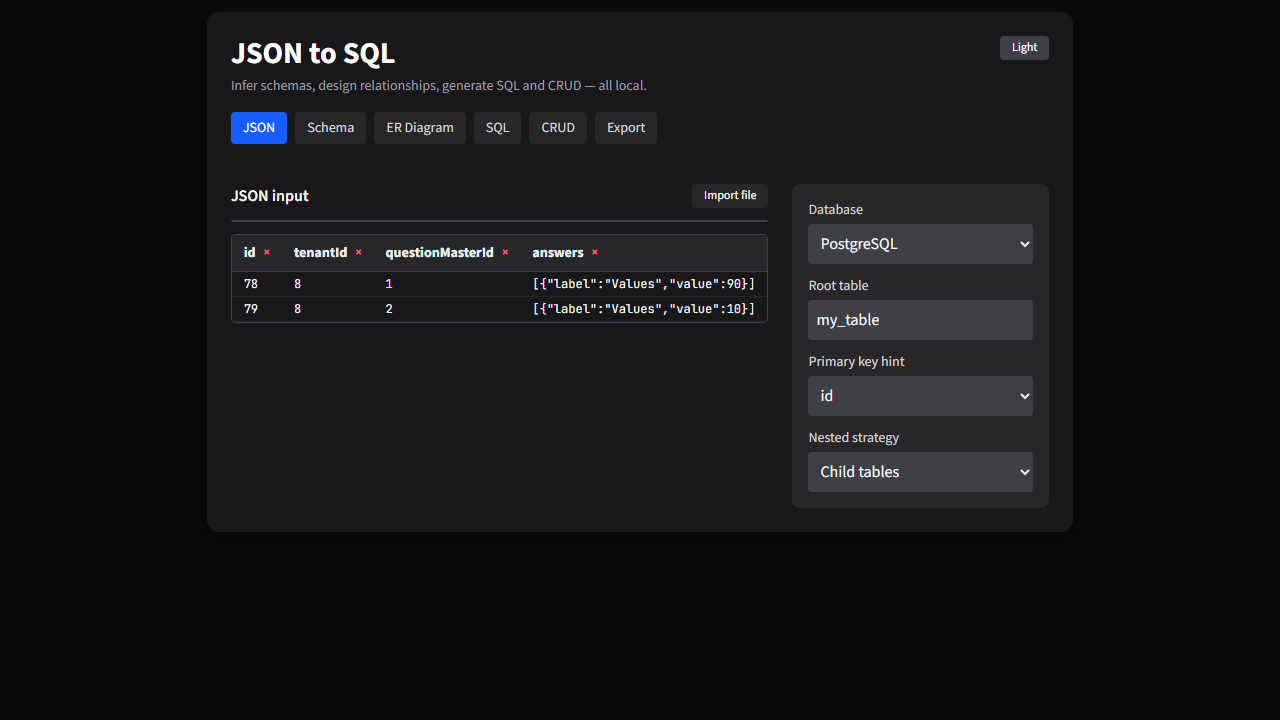
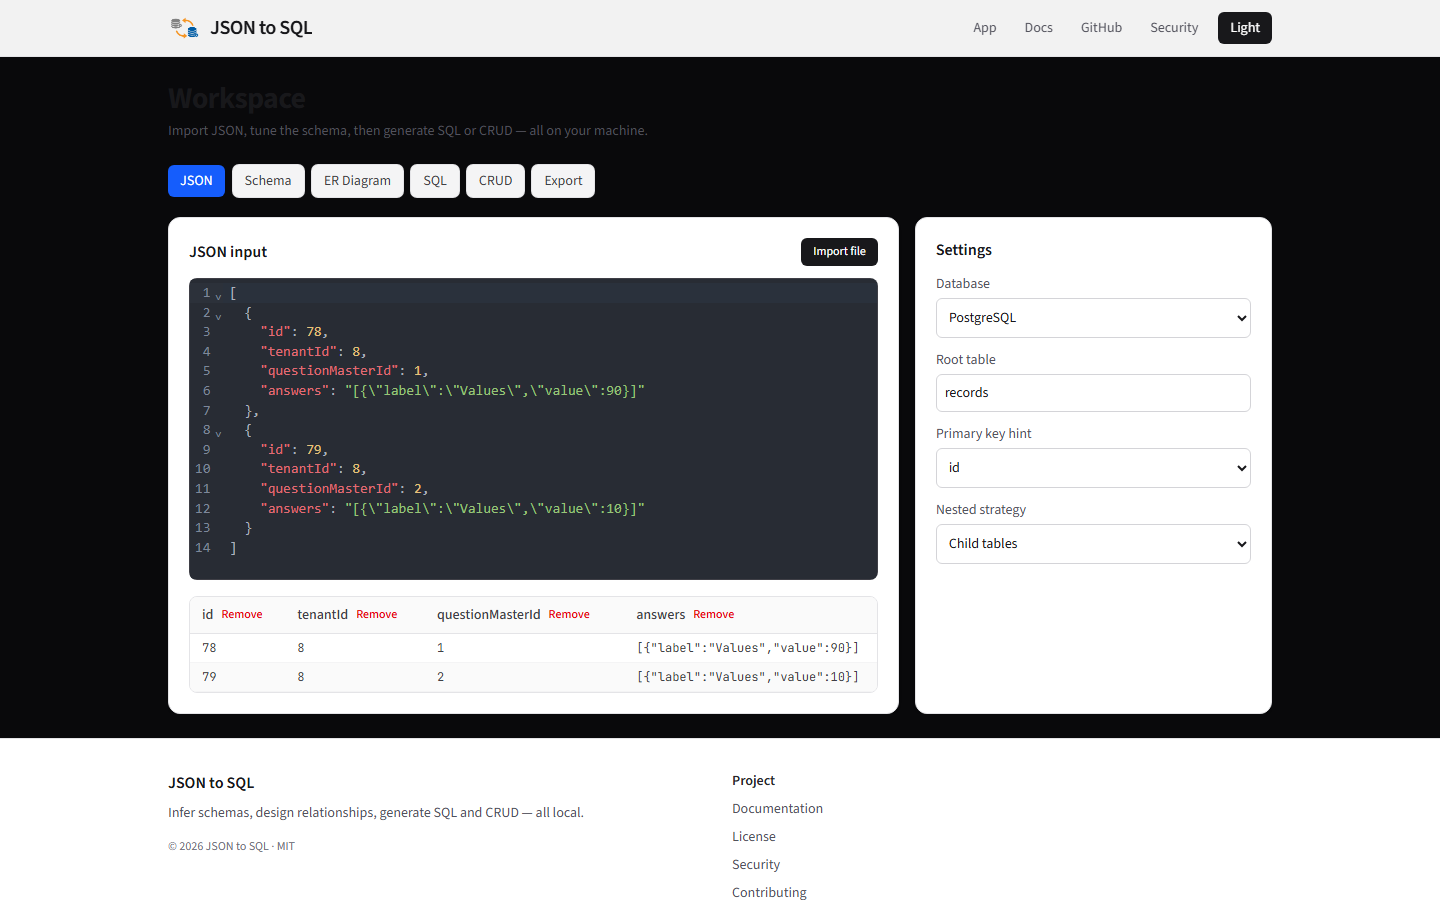
feat: add screenshot capture command and enhance README documentation
- Introduced a new npm script for capturing UI screenshots using Playwright.
- Updated README to include new demo images and installation instructions.
- Improved clarity in the screenshots section with a table format for better organization.

diff --git a/e2e/capture-screenshots.spec.js b/e2e/capture-screenshots.spec.js
@@ -1,0 +1,45 @@
+import { test } from "@playwright/test";
+import { mkdirSync } from "node:fs";
+import { join } from "node:path";
+
+const outDir = join(process.cwd(), "docs", "screenshots");
+const enabled = process.env.CAPTURE_SCREENSHOTS === "1";
+
+test.describe("capture README screenshots", () => {
+  test.skip(!enabled, "Set CAPTURE_SCREENSHOTS=1 to refresh docs/screenshots");
+
+  test("capture workspace tabs", async ({ page }) => {
+    mkdirSync(outDir, { recursive: true });
+    await page.setViewportSize({ width: 1440, height: 900 });
+    await page.goto("/");
+    await page.getByRole("heading", { name: "Workspace" }).waitFor();
+
+    const shot = async (name) => {
+      await page.screenshot({
+        path: join(outDir, name),
+        fullPage: false,
+      });
+    };
+
+    await shot("json-tab.png");
+
+    await page.getByRole("navigation", { name: "Workspace" }).getByRole("button", { name: "Schema" }).click();
+    await page.getByRole("button", { name: "Re-infer from JSON" }).waitFor({ timeout: 15000 });
+    await page.waitForTimeout(400);
+    await shot("schema-tab.png");
+
+    await page.getByRole("navigation", { name: "Workspace" }).getByRole("button", { name: "ER Diagram" }).click();
+    await page.waitForTimeout(800);
+    await shot("er-tab.png");
+
+    await page.getByRole("navigation", { name: "Workspace" }).getByRole("button", { name: "SQL" }).click();
+    await page.getByRole("button", { name: "Generate SQL" }).click();
+    await page.getByText(/SQL generated|INSERT SQL generated|Full SQL bundle generated/i).waitFor({ timeout: 15000 });
+    await page.waitForTimeout(400);
+    await shot("sql-tab.png");
+
+    await page.getByRole("navigation", { name: "Workspace" }).getByRole("button", { name: "CRUD" }).click();
+    await page.waitForTimeout(400);
+    await shot("crud-tab.png");
+  });
+});

diff --git a/README.md b/README.md
@@ -1,8 +1,70 @@
 # JSON to SQL
 
+[![npm @json-to-sql/core](https://img.shields.io/npm/v/@json-to-sql/core.svg?label=%40json-to-sql%2Fcore)](https://www.npmjs.com/package/@json-to-sql/core)
+[![npm @json-to-sql/cli](https://img.shields.io/npm/v/@json-to-sql/cli.svg?label=%40json-to-sql%2Fcli)](https://www.npmjs.com/package/@json-to-sql/cli)
+[![CI](https://github.com/shubhams5/json-to-sql/actions/workflows/ci.yml/badge.svg)](https://github.com/shubhams5/json-to-sql/actions/workflows/ci.yml)
+[![License: MIT](https://img.shields.io/badge/License-MIT-yellow.svg)](LICENSE)
+[![Node.js](https://img.shields.io/badge/node-%3E%3D22.12-brightgreen)](https://nodejs.org)
+
 Local-first open-source developer tool: import JSON, infer a database schema, design relationships, generate dialect-specific SQL, and export CRUD starters.
 
 No paid APIs. No remote conversion service. Generation only — this tool never executes SQL.
+
+## Demo
+
+![JSON input tab](docs/screenshots/json-tab.png)
+
+![Schema designer](docs/screenshots/schema-tab.png)
+
+![ER diagram](docs/screenshots/er-tab.png)
+
+![Generated SQL](docs/screenshots/sql-tab.png)
+
+![CRUD generator](docs/screenshots/crud-tab.png)
+
+Screenshots captured from the local web UI (`docs/screenshots/`). Refresh with:
+
+```bash
+CAPTURE_SCREENSHOTS=1 npx playwright test e2e/capture-screenshots.spec.js
+```
+
+## Install
+
+### Library (`@json-to-sql/core`)
+
+```bash
+npm install @json-to-sql/core
+```
+
+```ts
+import {
+  parseJsonInput,
+  inferSchema,
+  generateFullSqlBundle,
+  generateCrud,
+  parseCrudTargetFlag,
+} from "@json-to-sql/core";
+
+const { rows } = parseJsonInput(`[{"id":1,"name":"Ada","orders":[{"sku":"A","qty":1}]}]`);
+const schema = inferSchema(rows, { dialect: "postgres", rootTableName: "people" });
+const sql = generateFullSqlBundle(schema, rows);
+const files = generateCrud(schema, parseCrudTargetFlag("express-prisma"));
+```
+
+### CLI (`@json-to-sql/cli`)
+
+```bash
+npm install -g @json-to-sql/cli
+# or one-shot:
+npx @json-to-sql/cli --help
+```
+
+```bash
+json2sql data.json --dialect postgres --table users --out ./out --crud express-prisma
+cat data.json | json2sql - --out ./out --dialect sqlite
+```
+
+Requires **Node.js ≥ 22.12**.
 
 ## Features
 
@@ -20,9 +82,11 @@ No paid APIs. No remote conversion service. Generation only — this tool never 
 - Export: SQL, TypeScript interfaces, JSON Schema, CSV, ZIP bundle
 - Web UI + CLI (`json2sql`)
 
-## Quick start
+## Quick start (this repo / web UI)
 
 ```bash
+git clone https://github.com/shubhams5/json-to-sql.git
+cd json-to-sql
 npm install
 npm run build:packages
 npm run dev
@@ -39,7 +103,7 @@ npm start              # serves ./out (static). Do not use next start with outpu
 
 Or deploy the `out/` folder to any static host (GitHub Pages, Netlify, S3, nginx).
 
-### CLI
+### CLI from the monorepo
 
 ```bash
 npm run cli -- sample.json --dialect postgres --table users --out ./out --crud express-prisma

diff --git a/docs/screenshots/README.md b/docs/screenshots/README.md
@@ -1,14 +1,19 @@
 # Screenshots
 
-Capture UI screenshots after `npm run dev` and place them here for the README:
+Real UI captures for the README (Playwright, local app on port 3011).
 
-1. `json-tab.png` — JSON editor + preview table
-2. `schema-tab.png` — schema designer
-3. `er-tab.png` — ER diagram
-4. `sql-tab.png` — generated SQL output
+| File | Tab |
+|------|-----|
+| `json-tab.png` | JSON input |
+| `schema-tab.png` | Schema designer |
+| `er-tab.png` | ER diagram |
+| `sql-tab.png` | Generated SQL |
+| `crud-tab.png` | CRUD generator |
 
-Suggested README embed:
+Refresh:
 
-```md
-![JSON tab](docs/screenshots/json-tab.png)
+```bash
+CAPTURE_SCREENSHOTS=1 npx playwright test e2e/capture-screenshots.spec.js
 ```
+
+Do not invent or AI-generate product UI screenshots.
